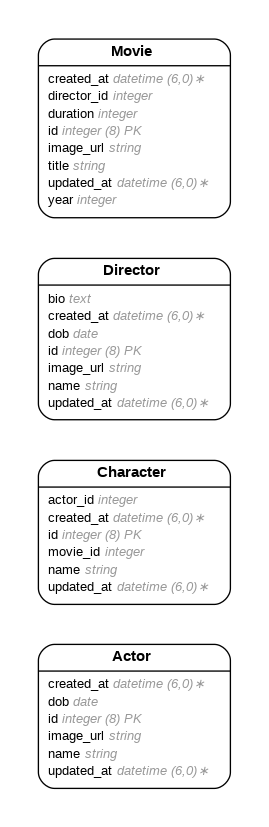
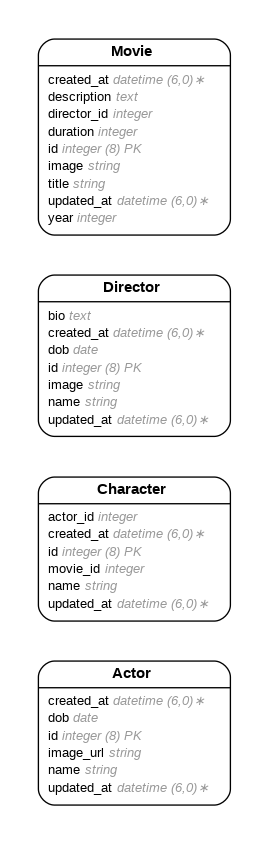
added image to table in create_movies.rb

diff --git a/db/schema.rb b/db/schema.rb
@@ -34,7 +34,7 @@ ActiveRecord::Schema[7.1].define(version: 2025_04_23_021921) do
     t.string "name"
     t.date "dob"
     t.text "bio"
-    t.string "image_url"
+    t.string "image"
     t.datetime "created_at", null: false
     t.datetime "updated_at", null: false
   end
@@ -43,8 +43,9 @@ ActiveRecord::Schema[7.1].define(version: 2025_04_23_021921) do
     t.string "title"
     t.integer "year"
     t.integer "duration"
-    t.string "image_url"
+    t.string "image"
     t.integer "director_id"
+    t.text "description"
     t.datetime "created_at", null: false
     t.datetime "updated_at", null: false
   end

diff --git a/app/models/movie.rb b/app/models/movie.rb
@@ -3,8 +3,9 @@
 # Table name: movies
 #
 #  id          :bigint           not null, primary key
+#  description :text
 #  duration    :integer
-#  image_url   :string
+#  image       :string
 #  title       :string
 #  year        :integer
 #  created_at  :datetime         not null

diff --git a/db/migrate/20250423021445_create_movies.rb b/db/migrate/20250423021445_create_movies.rb
@@ -4,9 +4,9 @@ class CreateMovies < ActiveRecord::Migration[7.1]
       t.string :title
       t.integer :year
       t.integer :duration
-      t.string :image_url
+      t.string :image
       t.integer :director_id
-
+      t.text :description
       t.timestamps
     end
   end

diff --git a/app/models/director.rb b/app/models/director.rb
@@ -5,7 +5,7 @@
 #  id         :bigint           not null, primary key
 #  bio        :text
 #  dob        :date
-#  image_url  :string
+#  image      :string
 #  name       :string
 #  created_at :datetime         not null
 #  updated_at :datetime         not null

diff --git a/db/migrate/20250423021245_create_directors.rb b/db/migrate/20250423021245_create_directors.rb
@@ -4,7 +4,7 @@ class CreateDirectors < ActiveRecord::Migration[7.1]
       t.string :name
       t.date :dob
       t.text :bio
-      t.string :image_url
+      t.string :image
 
       t.timestamps
     end
